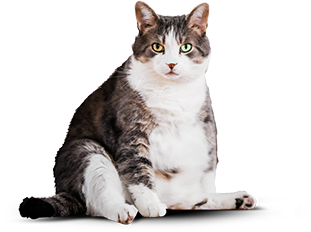
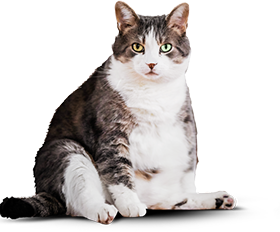
Внесены исправления в стили index после третьей проверки задания 5.1

diff --git a/source/catalog.html b/source/catalog.html
@@ -14,40 +14,12 @@
           <div class="page-header__wrapper-device">
             <div class="page-header__wrapper">
               <a class="page-header__logo" href="index.html" aria-label="Перейти на главную">
-                <svg  class="page-header__logo-image" width="191" height="38" viewBox="0 0 191 38" fill="none" xmlns="http://www.w3.org/2000/svg" aria-label="Cat energy">
-                  <g clip-path="url(#clip0)">
-                  <path d="M6.07 20.72V18.46C12.7536 17.5423 19.4937 17.0979 26.24 17.13C26.24 17.73 26.24 18.34 26.18 18.95C28.0976 18.099 30.1128 17.4877 32.18 17.13C30.8625 13.722 28.4618 10.8412 25.3471 8.93087C22.2324 7.02052 18.5764 6.1864 14.9414 6.55683C11.3064 6.92727 7.89379 8.48172 5.22852 10.9811C2.56325 13.4804 0.792969 16.7863 0.190001 20.39L6.07 20.72Z" fill="#FDC305"/>
-                  <path d="M27.24 24.23C26.08 25.51 25.85 25.43 25.85 27.68C25.85 28.59 25.85 32.58 25.85 36.86C28.1425 35.346 30.0245 33.2879 31.328 30.8694C32.6315 28.4509 33.3158 25.7474 33.32 23C33.3068 21.9591 33.1997 20.9216 33 19.9C30.9282 21.1295 28.9967 22.5814 27.24 24.23Z" fill="#FDC305"/>
-                  <path d="M6.36 25.72C6.36 25.72 2.57 24.28 1.17 23.89C0.787067 23.7693 0.396097 23.6757 0 23.61C0.108395 26.496 0.965588 29.3041 2.48739 31.7586C4.00919 34.2131 6.14326 36.2296 8.68 37.61L6.36 25.72Z" fill="#FDC305"/>
-                  <path d="M26.29 17.12C26.3307 11.5986 25.862 6.08528 24.89 0.65C24.89 0.65 24.75 -0.64 24 0.41C23.4109 1.65814 23.0067 2.98539 22.8 4.35C18.5418 4.07577 14.2675 4.18957 10.03 4.69C9.24 2 7.85 0.75 7.18 1C6.51 1.25 6.46 4.31 6.46 4.31L6.13 18.41C12.8113 17.506 19.548 17.0749 26.29 17.12Z" fill="#F06351"/>
-                  <path d="M12.41 14C12.41 13.91 13.41 14.68 13.82 14.92C14.23 15.16 14.43 15.34 14.43 15.51C14.43 15.68 14.16 15.85 13.8 15.85C13.44 15.85 12.89 15.73 12.8 15.58H13.74H14.03C13.4207 15.1294 12.8757 14.5978 12.41 14Z" fill="black"/>
-                  <path d="M19.89 14.11L18.8 15.44C18.8 15.5 18.63 15.79 18.98 15.74C19.3942 15.6783 19.8023 15.5812 20.2 15.45C20.31 15.45 20.27 15.26 20.09 15.28C19.91 15.3 19.4 15.33 19.09 15.39L19.93 14.13C19.93 14.13 20 14 19.89 14.11Z" fill="black"/>
-                  <path d="M16.75 20.2C17.2135 19.9958 17.5967 19.6443 17.84 19.2C18.12 18.55 17.84 18.29 17.4 18.2C16.7979 18.0902 16.1765 18.2116 15.66 18.54C15.27 18.9 15.32 19.26 15.61 19.54C15.9613 19.8062 16.3442 20.0279 16.75 20.2Z" fill="black"/>
-                  <path d="M16.35 21.45C16.2379 21.6785 16.0816 21.8825 15.89 22.05C15.6052 22.2791 15.2551 22.4122 14.89 22.43C14.3638 22.472 13.8406 22.3189 13.42 22C13.2222 21.8808 13.0436 21.7324 12.89 21.56C12.7895 21.4491 12.6669 21.3605 12.53 21.3C12.53 21.3 13.28 25.4 15.1 26.05C16.92 26.7 17.24 25.3 17.3 24.92C17.3601 23.7851 17.0742 22.6588 16.48 21.69C16.46 21.38 16.45 21.58 16.35 21.45Z" fill="#F06351"/>
-                  <path d="M14.71 22.59C14.2453 22.5247 13.7989 22.3651 13.3982 22.1209C12.9975 21.8767 12.651 21.5531 12.38 21.17C12.3667 21.157 12.3561 21.1414 12.3489 21.1242C12.3417 21.1071 12.338 21.0886 12.338 21.07C12.338 21.0514 12.3417 21.0329 12.3489 21.0158C12.3561 20.9986 12.3667 20.983 12.38 20.97C12.393 20.9567 12.4086 20.9461 12.4258 20.9389C12.4429 20.9317 12.4614 20.928 12.48 20.928C12.4986 20.928 12.5171 20.9317 12.5342 20.9389C12.5514 20.9461 12.567 20.9567 12.58 20.97C13.0848 21.6642 13.843 22.1313 14.69 22.27C15.0217 22.245 15.3426 22.1413 15.6261 21.9674C15.9096 21.7934 16.1475 21.5544 16.32 21.27L16.46 21.08L16.56 21.29C16.56 21.29 16.93 22.05 17.56 22.09C18.19 22.13 18.61 21.68 19.17 20.81C19.183 20.7967 19.1986 20.7861 19.2158 20.7789C19.2329 20.7717 19.2514 20.768 19.27 20.768C19.2886 20.768 19.3071 20.7717 19.3242 20.7789C19.3414 20.7861 19.357 20.7967 19.37 20.81C19.4023 20.8306 19.4255 20.8629 19.4348 20.9C19.4441 20.9372 19.4388 20.9766 19.42 21.01C18.78 22.01 18.15 22.45 17.54 22.41C17.308 22.3763 17.0867 22.2904 16.8927 22.1587C16.6987 22.0271 16.5371 21.8531 16.42 21.65C16.2233 21.9245 15.9676 22.1514 15.6717 22.3141C15.3758 22.4767 15.0471 22.571 14.71 22.59Z" fill="black"/>
-                  <path d="M26.24 18.92C24.4445 20.5437 22.7512 22.277 21.17 24.11C19.5986 25.9361 17.8238 27.5768 15.88 29C15.66 28.47 14.26 27.49 14.26 27.49C14.26 27.49 11.13 25.35 9.08 23.67C7.97414 22.7373 6.9287 21.7353 5.95 20.67L3.95 20.56C6.84018 24.7655 11.0702 27.8676 15.95 29.36C16.81 29.22 19.22 27.5 21.02 26.1C23.1389 24.2819 25.124 22.3134 26.96 20.21C27.4625 19.621 27.8493 18.9425 28.1 18.21C27 18.6 26.24 18.92 26.24 18.92Z" fill="#F06351"/>
-                  </g>
-                  <g clip-path="url(#clip1)">
-                  <path d="M91.2645 29.5385C90.3696 28.2762 89.9253 26.7627 90 25.2308V18.8462C89.8916 17.2977 90.3081 15.7575 91.1855 14.4615C92.0548 13.4615 93.3983 13 95.374 13C97.3498 13 98.6143 13.4615 99.4045 14.3077C100.263 15.3794 100.685 16.7214 100.59 18.0769V19.6154H96.7175V17.8462C96.7488 17.3229 96.6681 16.799 96.4804 16.3077C96.3802 16.1094 96.2212 15.9448 96.024 15.8351C95.8269 15.7255 95.6005 15.6757 95.374 15.6923C94.8208 15.6923 94.4257 15.8462 94.2676 16.2308C94.0888 16.7773 94.0086 17.3499 94.0305 17.9231V26.1538C93.9888 26.71 94.0978 27.267 94.3466 27.7692C94.5047 28.1538 94.8999 28.3077 95.4531 28.3077C96.0063 28.3077 96.3224 28.1538 96.4804 27.7692C96.6601 27.2494 96.7405 26.7019 96.7175 26.1538V24.3077H100.59V25.8462C100.67 27.2238 100.251 28.5852 99.4045 29.6923C98.6143 30.6154 97.2707 31.0769 95.374 31.0769C93.4773 31 92.0548 30.5385 91.2645 29.5385Z" fill="#111111"/>
-                  <path d="M105.253 13.2308H109.757L113.077 30.7692H109.441L108.809 27.0769H106.201L105.569 30.7692H101.854L105.253 13.2308ZM108.493 24.7692L107.545 17.9231L106.596 24.7692H108.493Z" fill="#111111"/>
-                  <path d="M115.843 16.1538H113.156V13.2308H122.56V16.0769H119.873V30.7692H115.843V16.1538Z" fill="#111111"/>
-                  <path d="M129.752 13.2308H136.707V15.0769H132.202V20.8462H135.837V22.6154H132.202V29.0769H136.707V30.8462H129.673V13.2308H129.752Z" fill="#111111"/>
-                  <path d="M138.761 13.2308H140.5L145.637 24.8462V13.2308H147.692V30.7692H146.111L140.895 18.7692V30.7692H138.761V13.2308Z" fill="#111111"/>
-                  <path d="M150.063 13.2308H157.017V15.0769H152.513V20.8462H156.148V22.6154H152.513V29.0769H157.017V30.8462H150.063V13.2308Z" fill="#111111"/>
-                  <path d="M159.072 13.2308H162.707C164.137 13.1346 165.559 13.5144 166.738 14.3077C167.607 15 168.002 16.2308 168.002 17.8462C168.002 20.0769 167.291 21.4615 165.79 21.9231L168.318 30.6923H165.869L163.498 22.4615H161.522V30.6923H158.993V13.2308H159.072ZM162.549 20.7692C163.364 20.8346 164.176 20.6165 164.841 20.1538C165.315 19.7692 165.552 19 165.552 17.8462C165.574 17.273 165.494 16.7004 165.315 16.1538C165.137 15.7617 164.832 15.4373 164.446 15.2308C163.902 14.9893 163.304 14.8836 162.707 14.9231H161.601V20.6923H162.549V20.7692Z" fill="#111111"/>
-                  <path d="M171.164 29.4615C170.342 28.1166 169.956 26.5617 170.057 25V19.1538C170.038 18.0391 170.17 16.9268 170.452 15.8462C170.717 15.0386 171.244 14.3367 171.954 13.8462C172.836 13.3377 173.854 13.0967 174.878 13.1538C176.538 13.1538 177.723 13.5385 178.434 14.3846C179.252 15.5019 179.644 16.8624 179.541 18.2308V18.8462H177.17V18.3077C177.173 17.6635 177.12 17.0201 177.012 16.3846C176.945 15.983 176.718 15.6235 176.379 15.3846C175.935 15.1008 175.408 14.9658 174.878 15C174.311 14.9647 173.75 15.1284 173.297 15.4615C173.111 15.614 172.959 15.8018 172.851 16.0134C172.742 16.2251 172.679 16.4561 172.665 16.6923C172.561 17.38 172.508 18.0741 172.507 18.7692V25.3077C172.449 26.3038 172.61 27.3006 172.981 28.2308C173.297 28.8462 173.93 29.0769 174.878 29.0769C175.252 29.1223 175.632 29.0589 175.97 28.8947C176.307 28.7304 176.587 28.4727 176.775 28.1538C177.192 27.1811 177.381 26.1299 177.328 25.0769V23.8462H175.036V22.0769H179.62V30.7692H178.039L177.802 28.7692C177.595 29.4395 177.163 30.0231 176.576 30.4273C175.989 30.8315 175.28 31.0331 174.562 31C173.909 31.0374 173.256 30.9164 172.663 30.6479C172.07 30.3794 171.555 29.9717 171.164 29.4615Z" fill="#111111"/>
-                  <path d="M184.678 24.6154L180.805 13.3077H183.176L185.942 21.7692L188.629 13.3077H191L187.128 24.6154V30.7692H184.757V24.6154H184.678Z" fill="#111111"/>
-                  </g>
-                  <defs>
-                  <clipPath id="clip0">
-                  <rect width="33.32" height="37.61" fill="white"/>
-                  </clipPath>
-                  <clipPath id="clip1">
-                  <rect width="101" height="18" fill="white" transform="translate(90 13)"/>
-                  </clipPath>
-                  </defs>
-                </svg>
-              </a>
+                <picture>
+                  <source media="(min-width: 1440px)" srcset="../img/desktop-logo.svg">
+                  <source media="(min-width: 768px)" srcset="../img/tablet-logo.svg">
+                  <img class="page-header__logo-image" src="../img/mobile-logo.svg" width="190" height="38" alt="Cat Enegry">
+                </picture>
+                </a>
               <button class="page-header__menu-toggle" type="button">
                   <img src="../img/button-menu-open.svg" width="26" height="16" alt="">
               </button>

diff --git a/source/form.html b/source/form.html
@@ -14,40 +14,12 @@
           <div class="page-header__wrapper-device">
             <div class="page-header__wrapper">
               <a class="page-header__logo" href="index.html" aria-label="Перейти на главную">
-                <svg  class="page-header__logo-image" width="191" height="38" viewBox="0 0 191 38" fill="none" xmlns="http://www.w3.org/2000/svg" aria-label="Cat energy">
-                  <g clip-path="url(#clip0)">
-                  <path d="M6.07 20.72V18.46C12.7536 17.5423 19.4937 17.0979 26.24 17.13C26.24 17.73 26.24 18.34 26.18 18.95C28.0976 18.099 30.1128 17.4877 32.18 17.13C30.8625 13.722 28.4618 10.8412 25.3471 8.93087C22.2324 7.02052 18.5764 6.1864 14.9414 6.55683C11.3064 6.92727 7.89379 8.48172 5.22852 10.9811C2.56325 13.4804 0.792969 16.7863 0.190001 20.39L6.07 20.72Z" fill="#FDC305"/>
-                  <path d="M27.24 24.23C26.08 25.51 25.85 25.43 25.85 27.68C25.85 28.59 25.85 32.58 25.85 36.86C28.1425 35.346 30.0245 33.2879 31.328 30.8694C32.6315 28.4509 33.3158 25.7474 33.32 23C33.3068 21.9591 33.1997 20.9216 33 19.9C30.9282 21.1295 28.9967 22.5814 27.24 24.23Z" fill="#FDC305"/>
-                  <path d="M6.36 25.72C6.36 25.72 2.57 24.28 1.17 23.89C0.787067 23.7693 0.396097 23.6757 0 23.61C0.108395 26.496 0.965588 29.3041 2.48739 31.7586C4.00919 34.2131 6.14326 36.2296 8.68 37.61L6.36 25.72Z" fill="#FDC305"/>
-                  <path d="M26.29 17.12C26.3307 11.5986 25.862 6.08528 24.89 0.65C24.89 0.65 24.75 -0.64 24 0.41C23.4109 1.65814 23.0067 2.98539 22.8 4.35C18.5418 4.07577 14.2675 4.18957 10.03 4.69C9.24 2 7.85 0.75 7.18 1C6.51 1.25 6.46 4.31 6.46 4.31L6.13 18.41C12.8113 17.506 19.548 17.0749 26.29 17.12Z" fill="#F06351"/>
-                  <path d="M12.41 14C12.41 13.91 13.41 14.68 13.82 14.92C14.23 15.16 14.43 15.34 14.43 15.51C14.43 15.68 14.16 15.85 13.8 15.85C13.44 15.85 12.89 15.73 12.8 15.58H13.74H14.03C13.4207 15.1294 12.8757 14.5978 12.41 14Z" fill="black"/>
-                  <path d="M19.89 14.11L18.8 15.44C18.8 15.5 18.63 15.79 18.98 15.74C19.3942 15.6783 19.8023 15.5812 20.2 15.45C20.31 15.45 20.27 15.26 20.09 15.28C19.91 15.3 19.4 15.33 19.09 15.39L19.93 14.13C19.93 14.13 20 14 19.89 14.11Z" fill="black"/>
-                  <path d="M16.75 20.2C17.2135 19.9958 17.5967 19.6443 17.84 19.2C18.12 18.55 17.84 18.29 17.4 18.2C16.7979 18.0902 16.1765 18.2116 15.66 18.54C15.27 18.9 15.32 19.26 15.61 19.54C15.9613 19.8062 16.3442 20.0279 16.75 20.2Z" fill="black"/>
-                  <path d="M16.35 21.45C16.2379 21.6785 16.0816 21.8825 15.89 22.05C15.6052 22.2791 15.2551 22.4122 14.89 22.43C14.3638 22.472 13.8406 22.3189 13.42 22C13.2222 21.8808 13.0436 21.7324 12.89 21.56C12.7895 21.4491 12.6669 21.3605 12.53 21.3C12.53 21.3 13.28 25.4 15.1 26.05C16.92 26.7 17.24 25.3 17.3 24.92C17.3601 23.7851 17.0742 22.6588 16.48 21.69C16.46 21.38 16.45 21.58 16.35 21.45Z" fill="#F06351"/>
-                  <path d="M14.71 22.59C14.2453 22.5247 13.7989 22.3651 13.3982 22.1209C12.9975 21.8767 12.651 21.5531 12.38 21.17C12.3667 21.157 12.3561 21.1414 12.3489 21.1242C12.3417 21.1071 12.338 21.0886 12.338 21.07C12.338 21.0514 12.3417 21.0329 12.3489 21.0158C12.3561 20.9986 12.3667 20.983 12.38 20.97C12.393 20.9567 12.4086 20.9461 12.4258 20.9389C12.4429 20.9317 12.4614 20.928 12.48 20.928C12.4986 20.928 12.5171 20.9317 12.5342 20.9389C12.5514 20.9461 12.567 20.9567 12.58 20.97C13.0848 21.6642 13.843 22.1313 14.69 22.27C15.0217 22.245 15.3426 22.1413 15.6261 21.9674C15.9096 21.7934 16.1475 21.5544 16.32 21.27L16.46 21.08L16.56 21.29C16.56 21.29 16.93 22.05 17.56 22.09C18.19 22.13 18.61 21.68 19.17 20.81C19.183 20.7967 19.1986 20.7861 19.2158 20.7789C19.2329 20.7717 19.2514 20.768 19.27 20.768C19.2886 20.768 19.3071 20.7717 19.3242 20.7789C19.3414 20.7861 19.357 20.7967 19.37 20.81C19.4023 20.8306 19.4255 20.8629 19.4348 20.9C19.4441 20.9372 19.4388 20.9766 19.42 21.01C18.78 22.01 18.15 22.45 17.54 22.41C17.308 22.3763 17.0867 22.2904 16.8927 22.1587C16.6987 22.0271 16.5371 21.8531 16.42 21.65C16.2233 21.9245 15.9676 22.1514 15.6717 22.3141C15.3758 22.4767 15.0471 22.571 14.71 22.59Z" fill="black"/>
-                  <path d="M26.24 18.92C24.4445 20.5437 22.7512 22.277 21.17 24.11C19.5986 25.9361 17.8238 27.5768 15.88 29C15.66 28.47 14.26 27.49 14.26 27.49C14.26 27.49 11.13 25.35 9.08 23.67C7.97414 22.7373 6.9287 21.7353 5.95 20.67L3.95 20.56C6.84018 24.7655 11.0702 27.8676 15.95 29.36C16.81 29.22 19.22 27.5 21.02 26.1C23.1389 24.2819 25.124 22.3134 26.96 20.21C27.4625 19.621 27.8493 18.9425 28.1 18.21C27 18.6 26.24 18.92 26.24 18.92Z" fill="#F06351"/>
-                  </g>
-                  <g clip-path="url(#clip1)">
-                  <path d="M91.2645 29.5385C90.3696 28.2762 89.9253 26.7627 90 25.2308V18.8462C89.8916 17.2977 90.3081 15.7575 91.1855 14.4615C92.0548 13.4615 93.3983 13 95.374 13C97.3498 13 98.6143 13.4615 99.4045 14.3077C100.263 15.3794 100.685 16.7214 100.59 18.0769V19.6154H96.7175V17.8462C96.7488 17.3229 96.6681 16.799 96.4804 16.3077C96.3802 16.1094 96.2212 15.9448 96.024 15.8351C95.8269 15.7255 95.6005 15.6757 95.374 15.6923C94.8208 15.6923 94.4257 15.8462 94.2676 16.2308C94.0888 16.7773 94.0086 17.3499 94.0305 17.9231V26.1538C93.9888 26.71 94.0978 27.267 94.3466 27.7692C94.5047 28.1538 94.8999 28.3077 95.4531 28.3077C96.0063 28.3077 96.3224 28.1538 96.4804 27.7692C96.6601 27.2494 96.7405 26.7019 96.7175 26.1538V24.3077H100.59V25.8462C100.67 27.2238 100.251 28.5852 99.4045 29.6923C98.6143 30.6154 97.2707 31.0769 95.374 31.0769C93.4773 31 92.0548 30.5385 91.2645 29.5385Z" fill="#111111"/>
-                  <path d="M105.253 13.2308H109.757L113.077 30.7692H109.441L108.809 27.0769H106.201L105.569 30.7692H101.854L105.253 13.2308ZM108.493 24.7692L107.545 17.9231L106.596 24.7692H108.493Z" fill="#111111"/>
-                  <path d="M115.843 16.1538H113.156V13.2308H122.56V16.0769H119.873V30.7692H115.843V16.1538Z" fill="#111111"/>
-                  <path d="M129.752 13.2308H136.707V15.0769H132.202V20.8462H135.837V22.6154H132.202V29.0769H136.707V30.8462H129.673V13.2308H129.752Z" fill="#111111"/>
-                  <path d="M138.761 13.2308H140.5L145.637 24.8462V13.2308H147.692V30.7692H146.111L140.895 18.7692V30.7692H138.761V13.2308Z" fill="#111111"/>
-                  <path d="M150.063 13.2308H157.017V15.0769H152.513V20.8462H156.148V22.6154H152.513V29.0769H157.017V30.8462H150.063V13.2308Z" fill="#111111"/>
-                  <path d="M159.072 13.2308H162.707C164.137 13.1346 165.559 13.5144 166.738 14.3077C167.607 15 168.002 16.2308 168.002 17.8462C168.002 20.0769 167.291 21.4615 165.79 21.9231L168.318 30.6923H165.869L163.498 22.4615H161.522V30.6923H158.993V13.2308H159.072ZM162.549 20.7692C163.364 20.8346 164.176 20.6165 164.841 20.1538C165.315 19.7692 165.552 19 165.552 17.8462C165.574 17.273 165.494 16.7004 165.315 16.1538C165.137 15.7617 164.832 15.4373 164.446 15.2308C163.902 14.9893 163.304 14.8836 162.707 14.9231H161.601V20.6923H162.549V20.7692Z" fill="#111111"/>
-                  <path d="M171.164 29.4615C170.342 28.1166 169.956 26.5617 170.057 25V19.1538C170.038 18.0391 170.17 16.9268 170.452 15.8462C170.717 15.0386 171.244 14.3367 171.954 13.8462C172.836 13.3377 173.854 13.0967 174.878 13.1538C176.538 13.1538 177.723 13.5385 178.434 14.3846C179.252 15.5019 179.644 16.8624 179.541 18.2308V18.8462H177.17V18.3077C177.173 17.6635 177.12 17.0201 177.012 16.3846C176.945 15.983 176.718 15.6235 176.379 15.3846C175.935 15.1008 175.408 14.9658 174.878 15C174.311 14.9647 173.75 15.1284 173.297 15.4615C173.111 15.614 172.959 15.8018 172.851 16.0134C172.742 16.2251 172.679 16.4561 172.665 16.6923C172.561 17.38 172.508 18.0741 172.507 18.7692V25.3077C172.449 26.3038 172.61 27.3006 172.981 28.2308C173.297 28.8462 173.93 29.0769 174.878 29.0769C175.252 29.1223 175.632 29.0589 175.97 28.8947C176.307 28.7304 176.587 28.4727 176.775 28.1538C177.192 27.1811 177.381 26.1299 177.328 25.0769V23.8462H175.036V22.0769H179.62V30.7692H178.039L177.802 28.7692C177.595 29.4395 177.163 30.0231 176.576 30.4273C175.989 30.8315 175.28 31.0331 174.562 31C173.909 31.0374 173.256 30.9164 172.663 30.6479C172.07 30.3794 171.555 29.9717 171.164 29.4615Z" fill="#111111"/>
-                  <path d="M184.678 24.6154L180.805 13.3077H183.176L185.942 21.7692L188.629 13.3077H191L187.128 24.6154V30.7692H184.757V24.6154H184.678Z" fill="#111111"/>
-                  </g>
-                  <defs>
-                  <clipPath id="clip0">
-                  <rect width="33.32" height="37.61" fill="white"/>
-                  </clipPath>
-                  <clipPath id="clip1">
-                  <rect width="101" height="18" fill="white" transform="translate(90 13)"/>
-                  </clipPath>
-                  </defs>
-                </svg>
-              </a>
+                <picture>
+                  <source media="(min-width: 1440px)" srcset="../img/desktop-logo.svg">
+                  <source media="(min-width: 768px)" srcset="../img/tablet-logo.svg">
+                  <img class="page-header__logo-image" src="../img/mobile-logo.svg" width="190" height="38" alt="Cat Enegry">
+                </picture>
+                </a>
               <button class="page-header__menu-toggle" type="button">
                   <img src="../img/button-menu-open.svg" width="26" height="16" alt="">
               </button>

diff --git a/source/index.html b/source/index.html
@@ -76,12 +76,12 @@
                 <div class="page-advantages__item-separator"></div>
                 <a class="page-advantages__item-link" href="catalog.html" aria-label="Открыть каталог продуктов серии Slim">
                   <span class="page-advantages__item-link--text">Каталог Slim</span>
-                  <span >
+                  <!-- <span > -->
                     <svg class="page-advantages__item-link--svg" width="24" height="12" viewBox="0 0 24 12" fill="none" xmlns="http://www.w3.org/2000/svg">
                       <line y1="6" x2="18" y2="6" stroke="black" stroke-width="2"/>
                       <path d="M24 6L17.25 11.1962L17.25 0.803848L24 6Z" fill="black"/>
                     </svg>
-                  </span>
+                  <!-- </span> -->
                 </a>
               </article>
               <article class="page-advantages__item">

diff --git a/source/sass/blocks/slider-block.scss b/source/sass/blocks/slider-block.scss
@@ -6,6 +6,8 @@
 }
 
 .slider-block__images {
+  position: relative;
+
   height: 255px;
   margin-right: auto;
   margin-left: auto;
@@ -15,13 +17,13 @@
   position: relative;
 
   /*display: none;*/
-  width: 311;
+  width: 280px;
   height: 232px;
-  margin-left: -20px;
+  margin-right: auto;
+  margin-left: auto;
 
   background-image: url("../img/mobile-example-image-before.png");
   background-repeat: no-repeat;
-  background-clip: content-box;
 }
 
 .slider-block__images-after {
@@ -238,6 +240,7 @@
 
   .slider-block__slider-before,
   .slider-block__slider-after {
+    height: 26px;
     margin-top: 6px;
   }
 }

diff --git a/source/sass/blocks/page-advantages.scss b/source/sass/blocks/page-advantages.scss
@@ -216,7 +216,7 @@
 
   .page-advantages__item {
     width: 570px;
-    padding-bottom: 62px;
+    padding-bottom: 61px;
   }
 
   .page-advantages__item:first-of-type {
@@ -268,7 +268,7 @@
     width: 467px;
     margin-top: 40px;
     margin-right: 51px;
-    margin-bottom: 30px;
+    margin-bottom: 31px;
   }
 
   .page-advantages__item-text--last {
@@ -285,7 +285,6 @@
   }
 
   .page-advantages__item-link {
-    width: 160px;
     margin-bottom: 0;
 
     font-size: 20px;

diff --git a/source/sass/blocks/page-example.scss b/source/sass/blocks/page-example.scss
@@ -65,7 +65,6 @@
 
 .page-example__conclude-wrapper {
   display: flex;
-  width: 188px;
   margin-top: 33px;
   margin-right: auto;
   margin-left: auto;
@@ -110,6 +109,7 @@
   }
 
   .page-example__text {
+    min-width: 0;
     width: 700px;
     margin-bottom: 54px;
 

diff --git a/source/sass/blocks/wrapper.scss b/source/sass/blocks/wrapper.scss
@@ -1,8 +1,9 @@
 .wrapper {
   position: relative;
 
-  padding-right: auto;
-  padding-left: auto;
+  width: 100%;
+  margin-right: auto;
+  margin-left: auto;
 }
 
 @media (min-width: $desktop-width) {

diff --git a/source/sass/blocks/page-promo.scss b/source/sass/blocks/page-promo.scss
@@ -205,7 +205,7 @@
 
   .page-promo__image {
     top: 29px;
-    left: 448px;
+    left: 447px;
 
     width: 552px;
     height: 499px;
